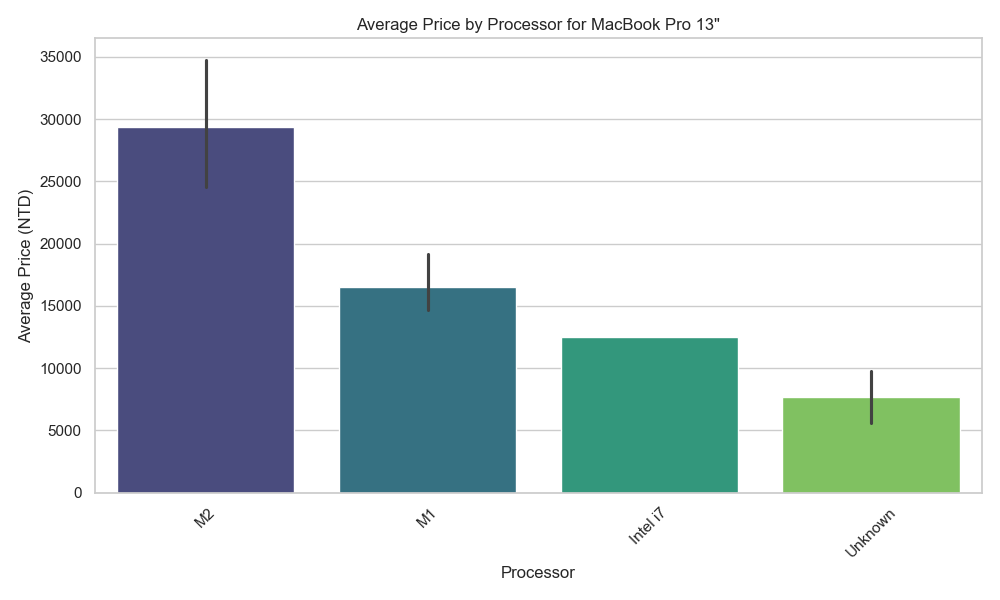
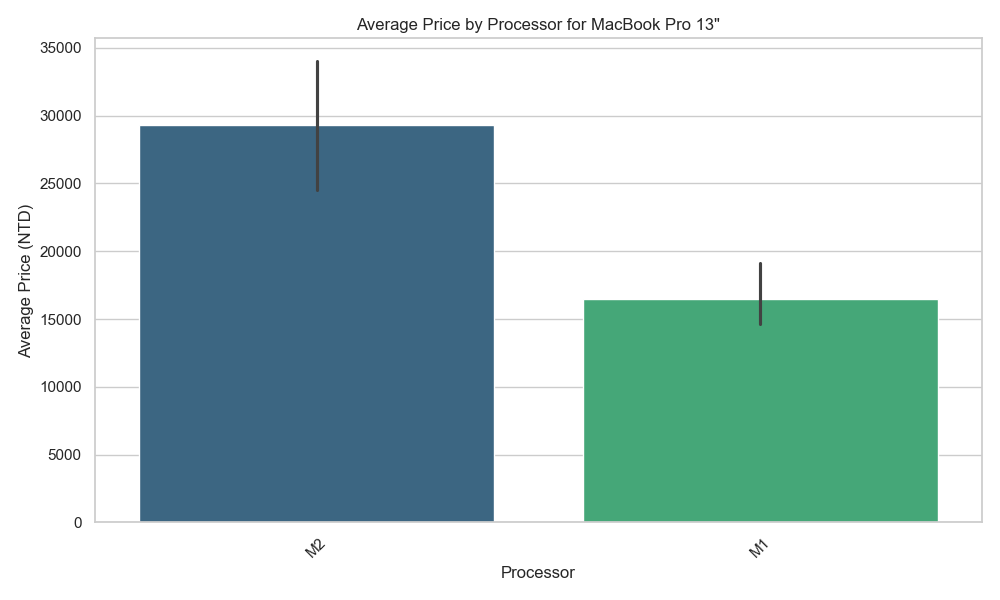
Fixed plot_macbook_processor_prices.py.

diff --git a/plot_macbook_processor_prices.py b/plot_macbook_processor_prices.py
@@ -12,18 +12,21 @@ os.makedirs(output_plots_dir, exist_ok=True)
 summary_path = os.path.join(output_data_dir, "macbook_summary_stats.csv")
 summary = pd.read_csv(summary_path)
 
-# Filter only MacBook Air and MacBook Pro models
+# Ensure correct type
+summary["screen_size"] = summary["screen_size"].astype(str)
+
+# === Plot config ===
 models_to_plot = ["MacBook Air", "MacBook Pro"]
 screen_sizes_to_plot = ["13", "14", "15", "16"]
-
 sns.set(style="whitegrid")
 
+# === Plotting ===
 for model in models_to_plot:
     for size in screen_sizes_to_plot:
         df_sub = summary[(summary["model"] == model) & (summary["screen_size"] == size)]
 
         if df_sub.empty:
-            continue  # Skip if no data for this combo
+            continue
 
         plt.figure(figsize=(10, 6))
         df_sub_sorted = df_sub.sort_values(by="avg_price", ascending=False)
@@ -31,8 +34,10 @@ for model in models_to_plot:
         sns.barplot(
             x="processor",
             y="avg_price",
+            hue="processor",
             data=df_sub_sorted,
-            palette="viridis"
+            palette="viridis",
+            legend=False
         )
 
         plt.title(f"Average Price by Processor for {model} {size}\"")
@@ -42,7 +47,9 @@ for model in models_to_plot:
         plt.tight_layout()
 
         filename_safe_model = model.replace(" ", "_")
-        plt.savefig(os.path.join(output_plots_dir, f"{filename_safe_model}_{size}inch_avg_price.png"))
+        filename = f"{filename_safe_model}_{size}inch_avg_price.png"
+        filepath = os.path.join(output_plots_dir, filename)
+        plt.savefig(filepath)
         plt.close()
 
-print("Plots saved to", output_plots_dir)
+print("All plots saved to", output_plots_dir)
